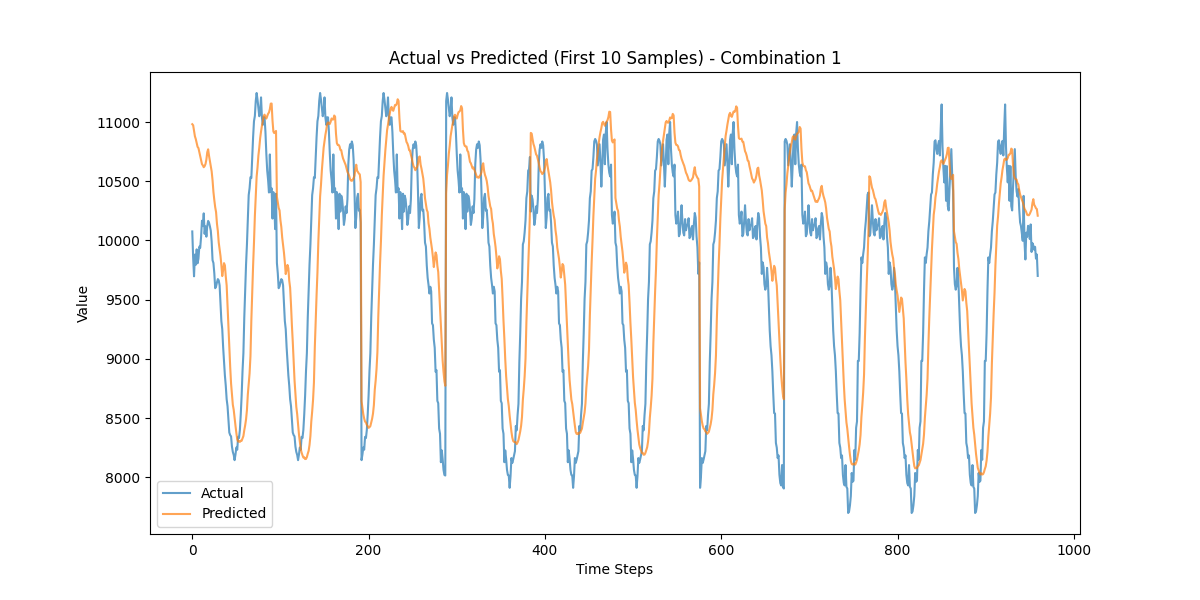
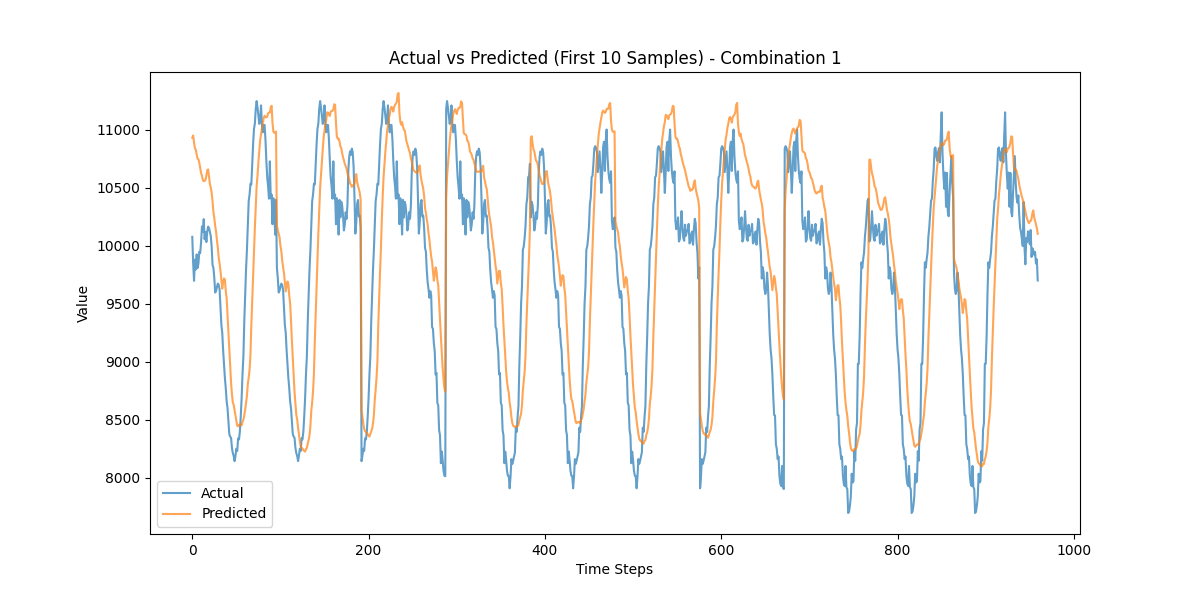
prep_cfg utility functions

diff --git a/fgnn/trainer.py b/fgnn/trainer.py
@@ -171,6 +171,10 @@ class FGNNTrainer(ModelTrainer):
 
         test_loss = 0.0
         num_batches = 0
+        
+        all_std_predictions = []
+        all_std_targets = []
+        
         all_predictions = []
         all_targets = []
 
@@ -178,25 +182,32 @@ class FGNNTrainer(ModelTrainer):
             for (x, y) in test_loader:
                 x, y = self._move_to_device((x, y))
 
-                x_transformed = None
                 try:
                     x_transformed = train_norm.transform(x)
                 except:
                     x_transformed = x
-
+                
                 out = self.model(x_transformed)
-
-                out_reversed = None
+                
+                try:
+                    label_transformed = train_norm.transform(
+                        y.unsqueeze(-1), transform_col=0).squeeze()
+                except:
+                    label_transformed = y
+                
+                loss = self.criterion(out, label_transformed)
+                test_loss += loss.item()
+                num_batches += 1
+                
+                all_std_predictions.append(out.cpu())
+                all_std_targets.append(label_transformed.cpu())
+                
                 try:
                     out_reversed = train_norm.reverse(
                         transformed=out.unsqueeze(-1)).squeeze()
                 except:
                     out_reversed = out
-
-                loss = self.criterion(out_reversed, y)
-                test_loss += loss.item()
-                num_batches += 1
-
+                
                 all_predictions.append(out_reversed.cpu())
                 all_targets.append(y.cpu())
 
@@ -205,11 +216,15 @@ class FGNNTrainer(ModelTrainer):
 
         predictions = torch.cat(all_predictions, dim=0)
         targets = torch.cat(all_targets, dim=0)
+        std_predictions = torch.cat(all_std_predictions, dim=0)
+        std_targets = torch.cat(all_std_targets, dim=0)
 
         self.logger.info(f"Test Loss: {avg_loss:.6f}")
 
         return {
             'test_loss': avg_loss,
-            'predictions': predictions,
-            'targets': targets
+            'predictions': std_predictions,
+            'targets': std_targets,
+            'original_predictions': predictions,
+            'original_targets': targets
         }

diff --git a/lstm/trainer.py b/lstm/trainer.py
@@ -170,6 +170,10 @@ class LSTMTrainer(ModelTrainer):
 
         test_loss = 0.0
         num_batches = 0
+
+        all_std_predictions = []
+        all_std_targets = []
+
         all_predictions = []
         all_targets = []
 
@@ -177,7 +181,6 @@ class LSTMTrainer(ModelTrainer):
             for x, y in test_loader:
                 x, y = self._move_to_device((x, y))
 
-                x_transformed = None
                 try:
                     x_transformed = train_norm.transform(x)
                 except:
@@ -185,16 +188,24 @@ class LSTMTrainer(ModelTrainer):
 
                 out, _ = self.model(x_transformed)
 
-                out_reversed = None
+                try:
+                    label_transformed = train_norm.transform(
+                        y.unsqueeze(-1), transform_col=0).squeeze()
+                except:
+                    label_transformed = y
+
+                loss = self.criterion(out, label_transformed)
+                test_loss += loss.item()
+                num_batches += 1
+
+                all_std_predictions.append(out.cpu())
+                all_std_targets.append(label_transformed.cpu())
+
                 try:
                     out_reversed = train_norm.reverse(
                         transformed=out.unsqueeze(-1)).squeeze()
                 except:
                     out_reversed = out
-
-                loss = self.criterion(out_reversed, y)
-                test_loss += loss.item()
-                num_batches += 1
 
                 all_predictions.append(out_reversed.cpu())
                 all_targets.append(y.cpu())
@@ -204,14 +215,18 @@ class LSTMTrainer(ModelTrainer):
 
         predictions = torch.cat(all_predictions, dim=0)
         targets = torch.cat(all_targets, dim=0)
+        std_predictions = torch.cat(all_std_predictions, dim=0)
+        std_targets = torch.cat(all_std_targets, dim=0)
 
         self.logger.info(f"Test Loss: {avg_loss:.6f}")
-        testing_res_dict = {
+
+        return {
             'test_loss': avg_loss,
-            'predictions': predictions,
-            'targets': targets
+            'predictions': std_predictions,
+            'targets': std_targets,
+            'original_predictions': predictions,
+            'original_targets': targets
         }
-        return testing_res_dict
 
 
 # class ARLSTMTrainer(nn.Module):

diff --git a/ffnn/trainer.py b/ffnn/trainer.py
@@ -149,6 +149,10 @@ class FFNNTrainer(ModelTrainer):
 
         test_loss = 0.0
         num_batches = 0
+
+        all_std_predictions = []
+        all_std_targets = []
+
         all_predictions = []
         all_targets = []
 
@@ -156,7 +160,6 @@ class FFNNTrainer(ModelTrainer):
             for x, y in test_loader:
                 x, y = self._move_to_device((x, y))
 
-                x_transformed = None
                 try:
                     x_transformed = train_norm.transform(x)
                 except:
@@ -164,17 +167,24 @@ class FFNNTrainer(ModelTrainer):
 
                 out = self.model(x_transformed)
 
-                out_reversed = None
                 try:
-                    print('HERE')
+                    label_transformed = train_norm.transform(
+                        y.unsqueeze(-1), transform_col=0).squeeze()
+                except:
+                    label_transformed = y
+
+                loss = self.criterion(out, label_transformed)
+                test_loss += loss.item()
+                num_batches += 1
+
+                all_std_predictions.append(out.cpu())
+                all_std_targets.append(label_transformed.cpu())
+
+                try:
                     out_reversed = train_norm.reverse(
                         transformed=out.unsqueeze(-1)).squeeze()
                 except:
                     out_reversed = out
-
-                loss = self.criterion(out_reversed, y)
-                test_loss += loss.item()
-                num_batches += 1
 
                 all_predictions.append(out_reversed.cpu())
                 all_targets.append(y.cpu())
@@ -184,11 +194,15 @@ class FFNNTrainer(ModelTrainer):
 
         predictions = torch.cat(all_predictions, dim=0)
         targets = torch.cat(all_targets, dim=0)
+        std_predictions = torch.cat(all_std_predictions, dim=0)
+        std_targets = torch.cat(all_std_targets, dim=0)
 
         self.logger.info(f"Test Loss: {avg_loss:.6f}")
 
         return {
             'test_loss': avg_loss,
-            'predictions': predictions,
-            'targets': targets
+            'predictions': std_predictions,
+            'targets': std_targets,
+            'original_predictions': predictions,
+            'original_targets': targets
         }

diff --git a/transformer/layers.py b/transformer/layers.py
@@ -1,7 +1,7 @@
 import torch
 import torch.nn as nn
 import torch.nn.functional as F
-from ffnn.model import FFNN
+# from ffnn.model import FFNN
 
 
 # class TimeStepEmbedding(nn.Module):
@@ -17,22 +17,29 @@ from ffnn.model import FFNN
 
 
 # TODO: figure out how to handle this; i.e., how should DoW, MoY, HoD features be encoded.
-class SinusoidalPositionalEncoder(nn.Module):
-    def __init__(self, positional_feats, time_steps, d_model):
+class PositionalEncoder(nn.Module):
+    def __init__(self, positional_feat, time_steps, d_model):
         super(PositionalEncoder, self).__init__()
 
         self.positional_feat = positional_feat
         self.time_steps = time_steps
         self.d_model = d_model
 
-    def forward(self, x_cov):
-        pos = x_cov[..., self.positional_feat]
-        position = torch.arange(
-            0, self.time_steps, dtype=torch.float).unsqueeze(1)
-        div_term = torch.exp(torch.arange(0, self.d_model, 2, dtype=torch.float)
+    def forward(self, x_cov=None):
+
+        position = torch.zeros(self.time_steps)
+        pe = torch.zeros(self.time_steps, self.d_model)
+        div_term = torch.exp(torch.arange(0, 2, self.d_model, dtype=torch.float)
                              * (-torch.log(torch.tensor(10000.0)) / self.d_model))
 
-        pe = torch.zeros(self.time_steps, self.d_model)
+        if self.positional_feat is not None:
+            assert (x_cov is not None)
+
+            B, L, N = x_cov.shape
+            position = x_cov[0, :, self.positional_feat].unsqueeze(1)
+        else:
+            position = torch.arange(
+                0, self.time_steps, dtype=torch.float).unsqueeze(1)
 
         pe[:, 0::2] = torch.sin(position * div_term)
         pe[:, 1::2] = torch.cos(position * div_term)
@@ -55,9 +62,11 @@ class MultiHeadAttention(nn.Module):
     def forward(self, q, k, v):
         return self.atten(q, k, v)
 
+
 class SubLayer(nn.Module):
     def __init__(self):
         super(SubLayer, self).__init__()
+
 
 class EncoderLayer(nn.Module):
     def __init__(self):
@@ -67,5 +76,3 @@ class EncoderLayer(nn.Module):
 class DecoderLayer(nn.Module):
     def __init__(self):
         super(DecoderLayer, self).__init__()
-
-

diff --git a/lstm/model.py b/lstm/model.py
@@ -1,6 +1,6 @@
 import torch
 import torch.nn as nn
-
+import copy
 
 class LSTMWrapper(nn.LSTM):
     """
@@ -75,20 +75,29 @@ class LSTMWrapper(nn.LSTM):
         Returns:
             tuple: (output, hidden_state)
         """
-        # Ensure input is on the correct device
         if not x.is_cuda and self.device.type == 'cuda':
             x = x.to(self.device)
 
-        # Move hidden state to device if provided
         if hidden is not None:
             hidden = tuple(h.to(self.device) for h in hidden)
 
-        # Get LSTM output for all time steps
         output, hidden = super().forward(x, hidden)
 
-        # Only use the last time step's output for forecasting
         last_output = output[:, -1, :]  # [batch_size, hidden_size]
         # [batch_size, forecast_length]
         forecast = self.forecast_head(last_output)
 
         return forecast, hidden
+
+def prep_cfg(
+    param_dict: dict, 
+    x : torch.Tensor, 
+    granularity: int = 1,
+    pred_hours: int = 24):
+    
+    assert (len(x.shape) == 3)
+    
+    cfg = copy.deepcopy(param_dict)
+    cfg['input_size'] = x.shape[-1]
+    
+    return cfg

diff --git a/ffnn/model.py b/ffnn/model.py
@@ -1,6 +1,6 @@
 import torch
 import torch.nn as nn
-
+import copy
 
 class FFNN(nn.Module):
     """
@@ -54,8 +54,23 @@ class FFNN(nn.Module):
         Returns:
             torch.Tensor: Output tensor of shape (batch_size, output_size)
         """
-        # Ensure input is on the correct device
         if not x.is_cuda and self.device.type == 'cuda':
             x = x.to(self.device)
         x = x.reshape(x.shape[0], -1)
         return self.model(x)
+    
+
+def prep_cfg(
+    param_dict: dict, 
+    x: torch.Tensor, 
+    granularity: int = 1, 
+    pred_hours: int = 24):
+    
+    assert (len(x.shape) == 3)
+    
+    cfg = copy.deepcopy(param_dict)
+    
+    cfg['output_size'] = pred_hours * granularity
+    cfg['input_size'] = x.shape[-1] * x.shape[-2] * granularity
+    
+    return cfg

diff --git a/fgnn/model.py b/fgnn/model.py
@@ -1,7 +1,7 @@
 import torch
 import torch.nn as nn
 import torch.nn.functional as F
-
+import copy
 
 class FGN(nn.Module):
     def __init__(
@@ -200,3 +200,19 @@ class FGN(nn.Module):
             return x[:, self.target_idx, :]
 
         return x
+    
+def prep_cfg(
+    param_dict: dict, 
+    x: torch.Tensor, 
+    granularity: int = 1, 
+    pred_hrs: int = 24):
+    
+    assert (len(x.shape) == 3)
+    
+    cfg = copy.deepcopy(param_dict)
+    
+    cfg['pre_length'] = pred_hrs * granularity
+    cfg['seq_length'] = x.shape[-2] * granularity
+    cfg['input_size'] = x.shape[-1]
+    
+    return cfg

diff --git a/utils/grid_search.py b/utils/grid_search.py
@@ -116,8 +116,8 @@ def grid_search(
 
         plot_test_samples(
             n_samples=10,
-            predicted_samples=test_results['predictions'],
-            target_samples=test_results['targets'],
+            predicted_samples=test_results['original_predictions'],
+            target_samples=test_results['original_targets'],
             i=i,
             save_name=save_name,
             logger=logger)
